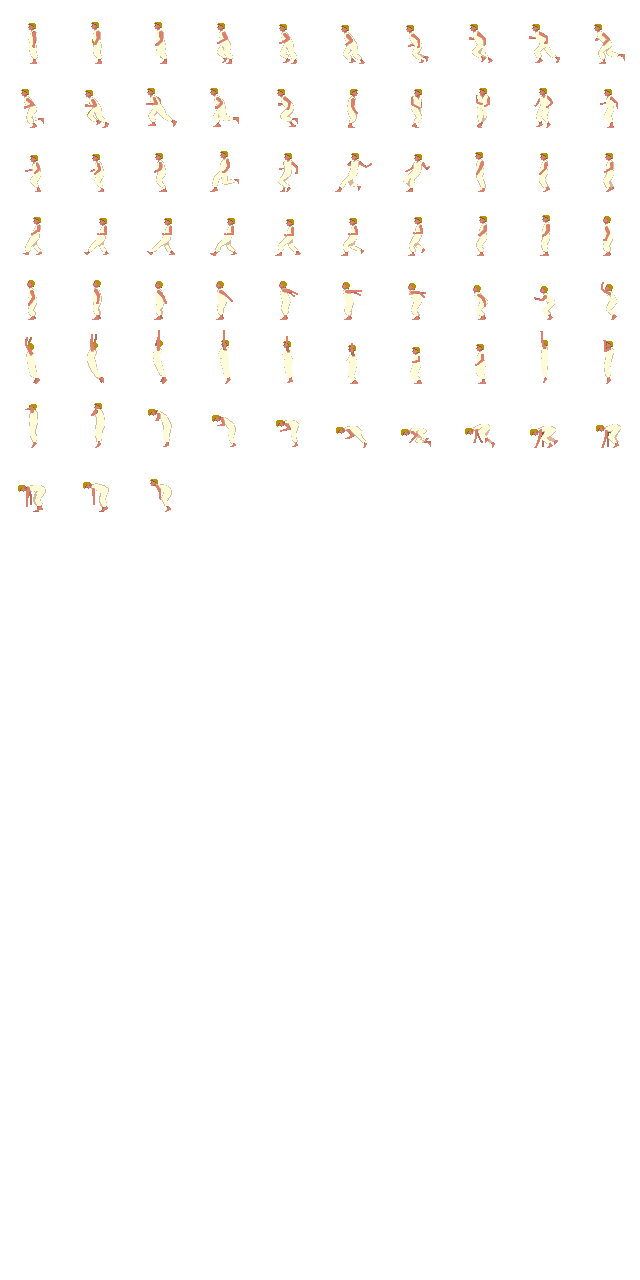
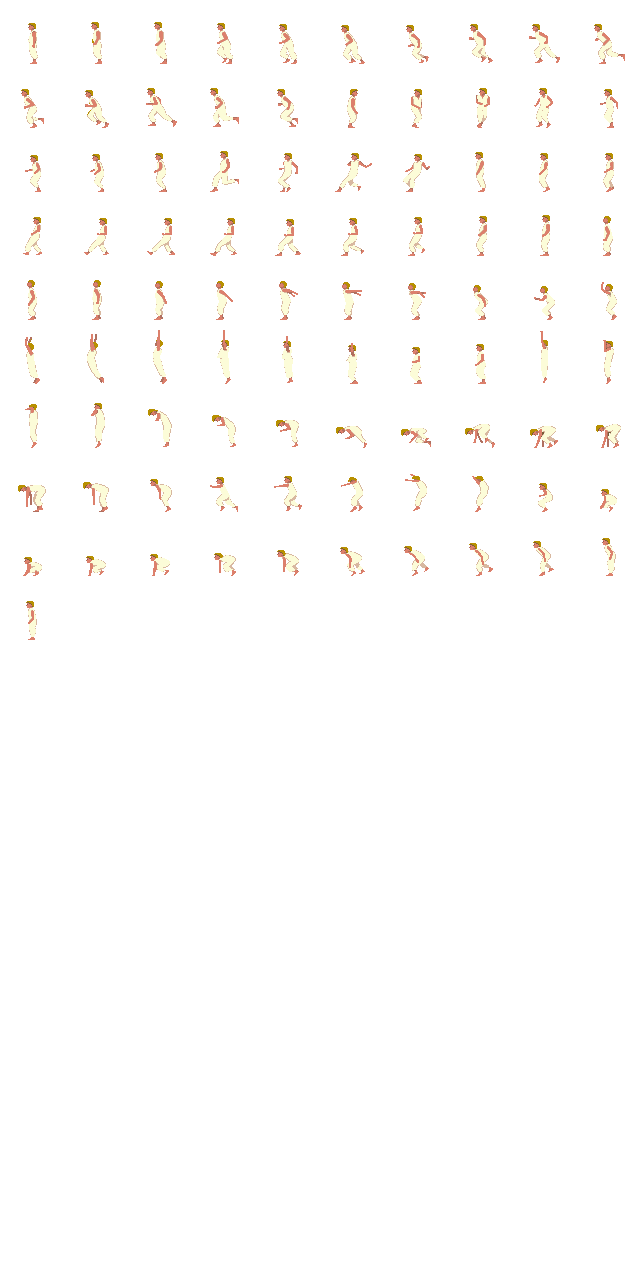
jump completat + sprites fall

diff --git a/2DGame/01-TBE/01-TBE/TileMap.cpp b/2DGame/01-TBE/01-TBE/TileMap.cpp
@@ -164,8 +164,9 @@ bool TileMap::collisionMoveLeft(const glm::ivec2 &pos, const glm::ivec2 &size) c
 	x = pos.x /tileSizeWidth;
 	y0 = round((double)pos.y / (double)tileSizeHeight) ;
 	if (map[y0*mapSize.x + x] < 20 && map[y0*mapSize.x + x] != -1){ // el problema es que nomes miro la pared just a l'esquerre
-			if (tileSizeWidth * x+20 > pos.x) 
-				return true;
+		if (tileSizeWidth * x + 20 > pos.x) {
+			return true;
+			}
 		}
 	return false;
 }
@@ -174,10 +175,11 @@ bool TileMap::collisionMoveRight(const glm::ivec2 &pos, const glm::ivec2 &size) 
 {
 	int x, y0;
 
-	x = (pos.x + size.x - 1) / tileSizeWidth;
+	x = (pos.x + size.x/2) / tileSizeWidth;
 	y0 = round((double)pos.y / (double)tileSizeHeight);
 	if (map[y0*mapSize.x + x] < 20 && map[y0*mapSize.x + x] != -1){
-		if (tileSizeWidth*x - 40 < pos.x)
+		//dibuixa sprite per sobre
+		if (tileSizeWidth*x-30< pos.x)
 			return true;
 	}
 	return false;
@@ -187,12 +189,26 @@ bool TileMap::JumpableLeft(const glm::ivec2 &pos, const glm::ivec2 &size) const{
 	int x, y;
 	x = pos.x / tileSizeWidth;
 	y = round((double)pos.y / (double)tileSizeHeight);
-	if (map[(y - 1)*mapSize.x + x] < 40 && map[(y - 1)*mapSize.x + x] >= 20 && map[(y - 1)*mapSize.x + x] != -1){ // falta afegir que vigili la pared just a sobre
-	//	if (tileSizeWidth * x + 20 > pos.x)
+	if (map[(y - 1)*mapSize.x + x] < 40 && map[(y - 1)*mapSize.x + x] >= 20 && map[(y - 1)*mapSize.x + x] != -1
+		&& map[(y - 1)*mapSize.x + (x+1)] == -1){ // mira que la pared anterior sigui buida
+		if (tileSizeWidth * x + 20 > pos.x)
 			return true;
 	}
 	return false;
 }
+
+bool TileMap::JumpableRight(const glm::ivec2 &pos, const glm::ivec2 &size) const{
+	int x, y;
+	x = (pos.x + size.x/2 - 1) / tileSizeWidth;
+	y = round((double)pos.y / (double)tileSizeHeight);
+	if (map[(y - 1)*mapSize.x + x] < 40 && map[(y - 1)*mapSize.x + x] >= 20 
+		&& map[(y - 1)*mapSize.x + x] != -1 && map[(y - 1)*mapSize.x + (x - 1)] == -1){
+		if (tileSizeWidth*x - 40 < pos.x)
+			return true;
+	}
+	return false;
+}
+
 bool TileMap::collisionMoveDown(const glm::ivec2 &pos, const glm::ivec2 &size, int *posY) const
 {
 	int x0, x1, y;
@@ -202,7 +218,7 @@ bool TileMap::collisionMoveDown(const glm::ivec2 &pos, const glm::ivec2 &size, i
 	y = (pos.y + size.y - 1) / tileSizeHeight;
 	for (int x = x0; x <= x1; x++)
 	{
-		if (map[y*mapSize.x + x] != -1)
+		if (map[y*mapSize.x + x] < 40 && map[y*mapSize.x + x] >= 20 && map[y*mapSize.x + x] != -1)
 		{
 			if (abs(*posY - tileSizeHeight * y- (7*tileSizeHeight/8) + size.y) <= 8)
 			{

diff --git a/2DGame/01-TBE/01-TBE/TileMap.h b/2DGame/01-TBE/01-TBE/TileMap.h
@@ -29,6 +29,7 @@ public:
 	int getTileSizeH() const { return tileSizeHeight; }
 	bool collisionMoveLeft(const glm::ivec2 &pos, const glm::ivec2 &size) const;
 	bool JumpableLeft(const glm::ivec2 &pos, const glm::ivec2 &size) const;
+	bool JumpableRight(const glm::ivec2 &pos, const glm::ivec2 &size) const;
 	bool collisionMoveRight(const glm::ivec2 &pos, const glm::ivec2 &size) const;
 	bool collisionMoveDown(const glm::ivec2 &pos, const glm::ivec2 &size, int *posY) const;
 
